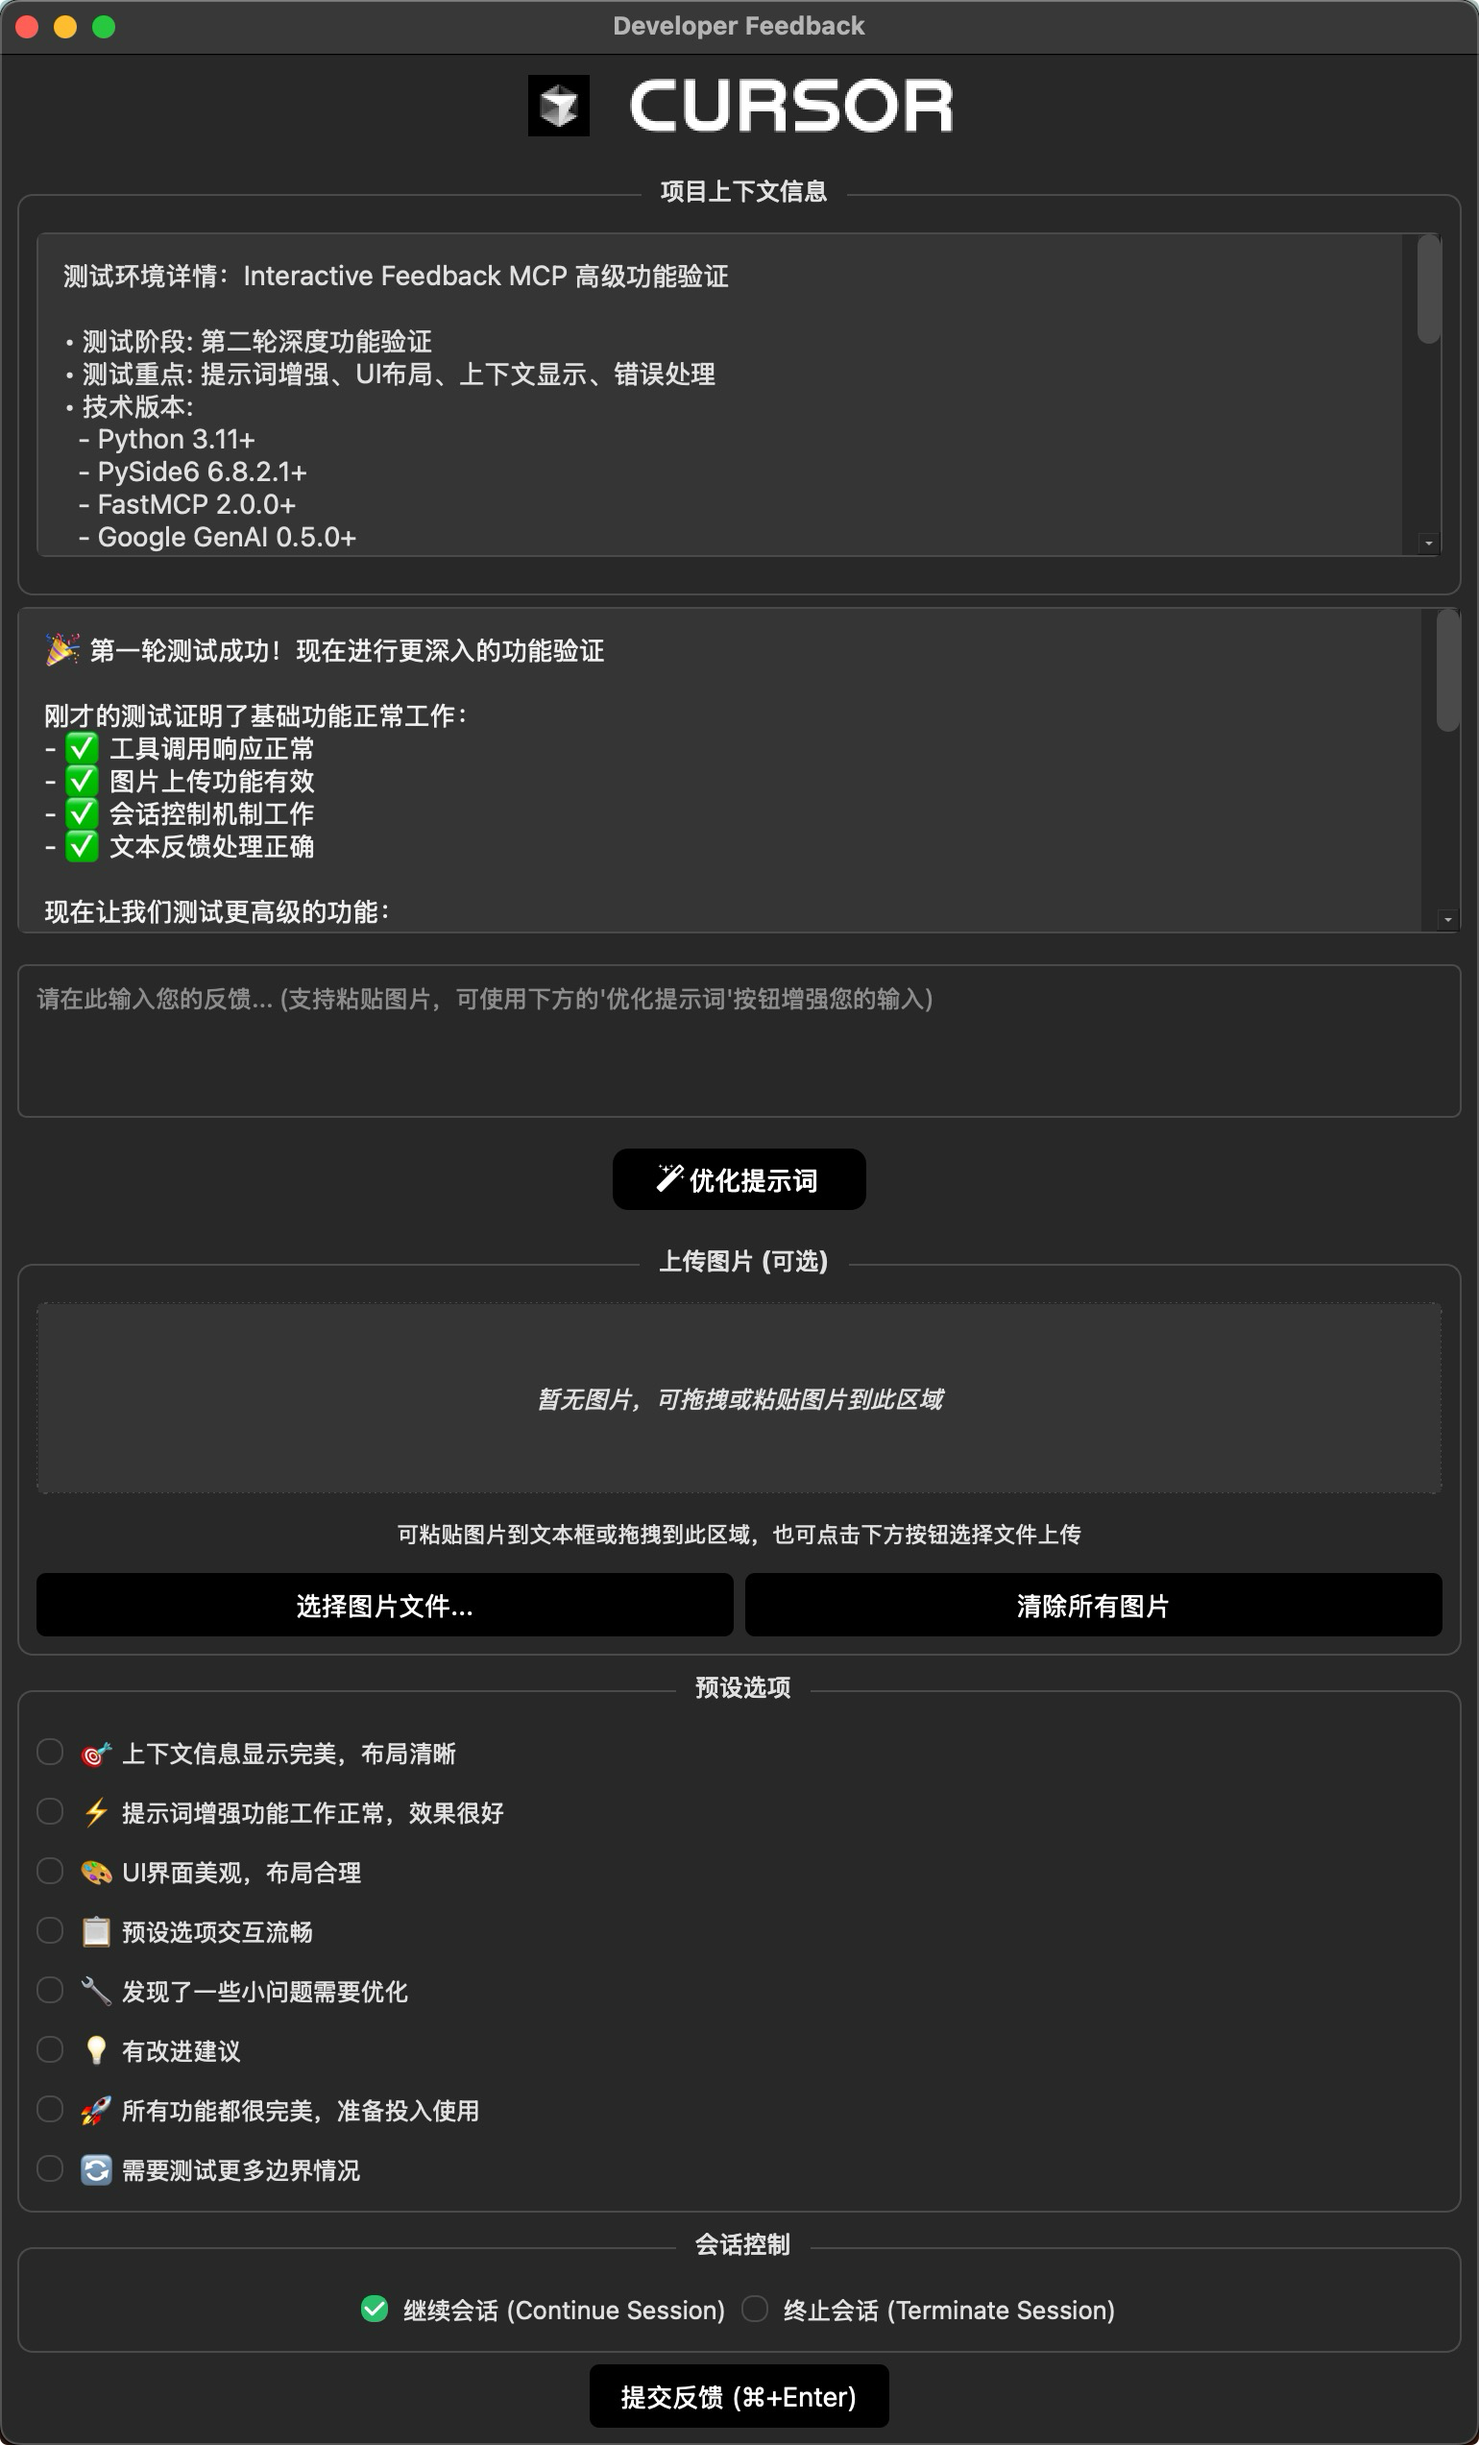
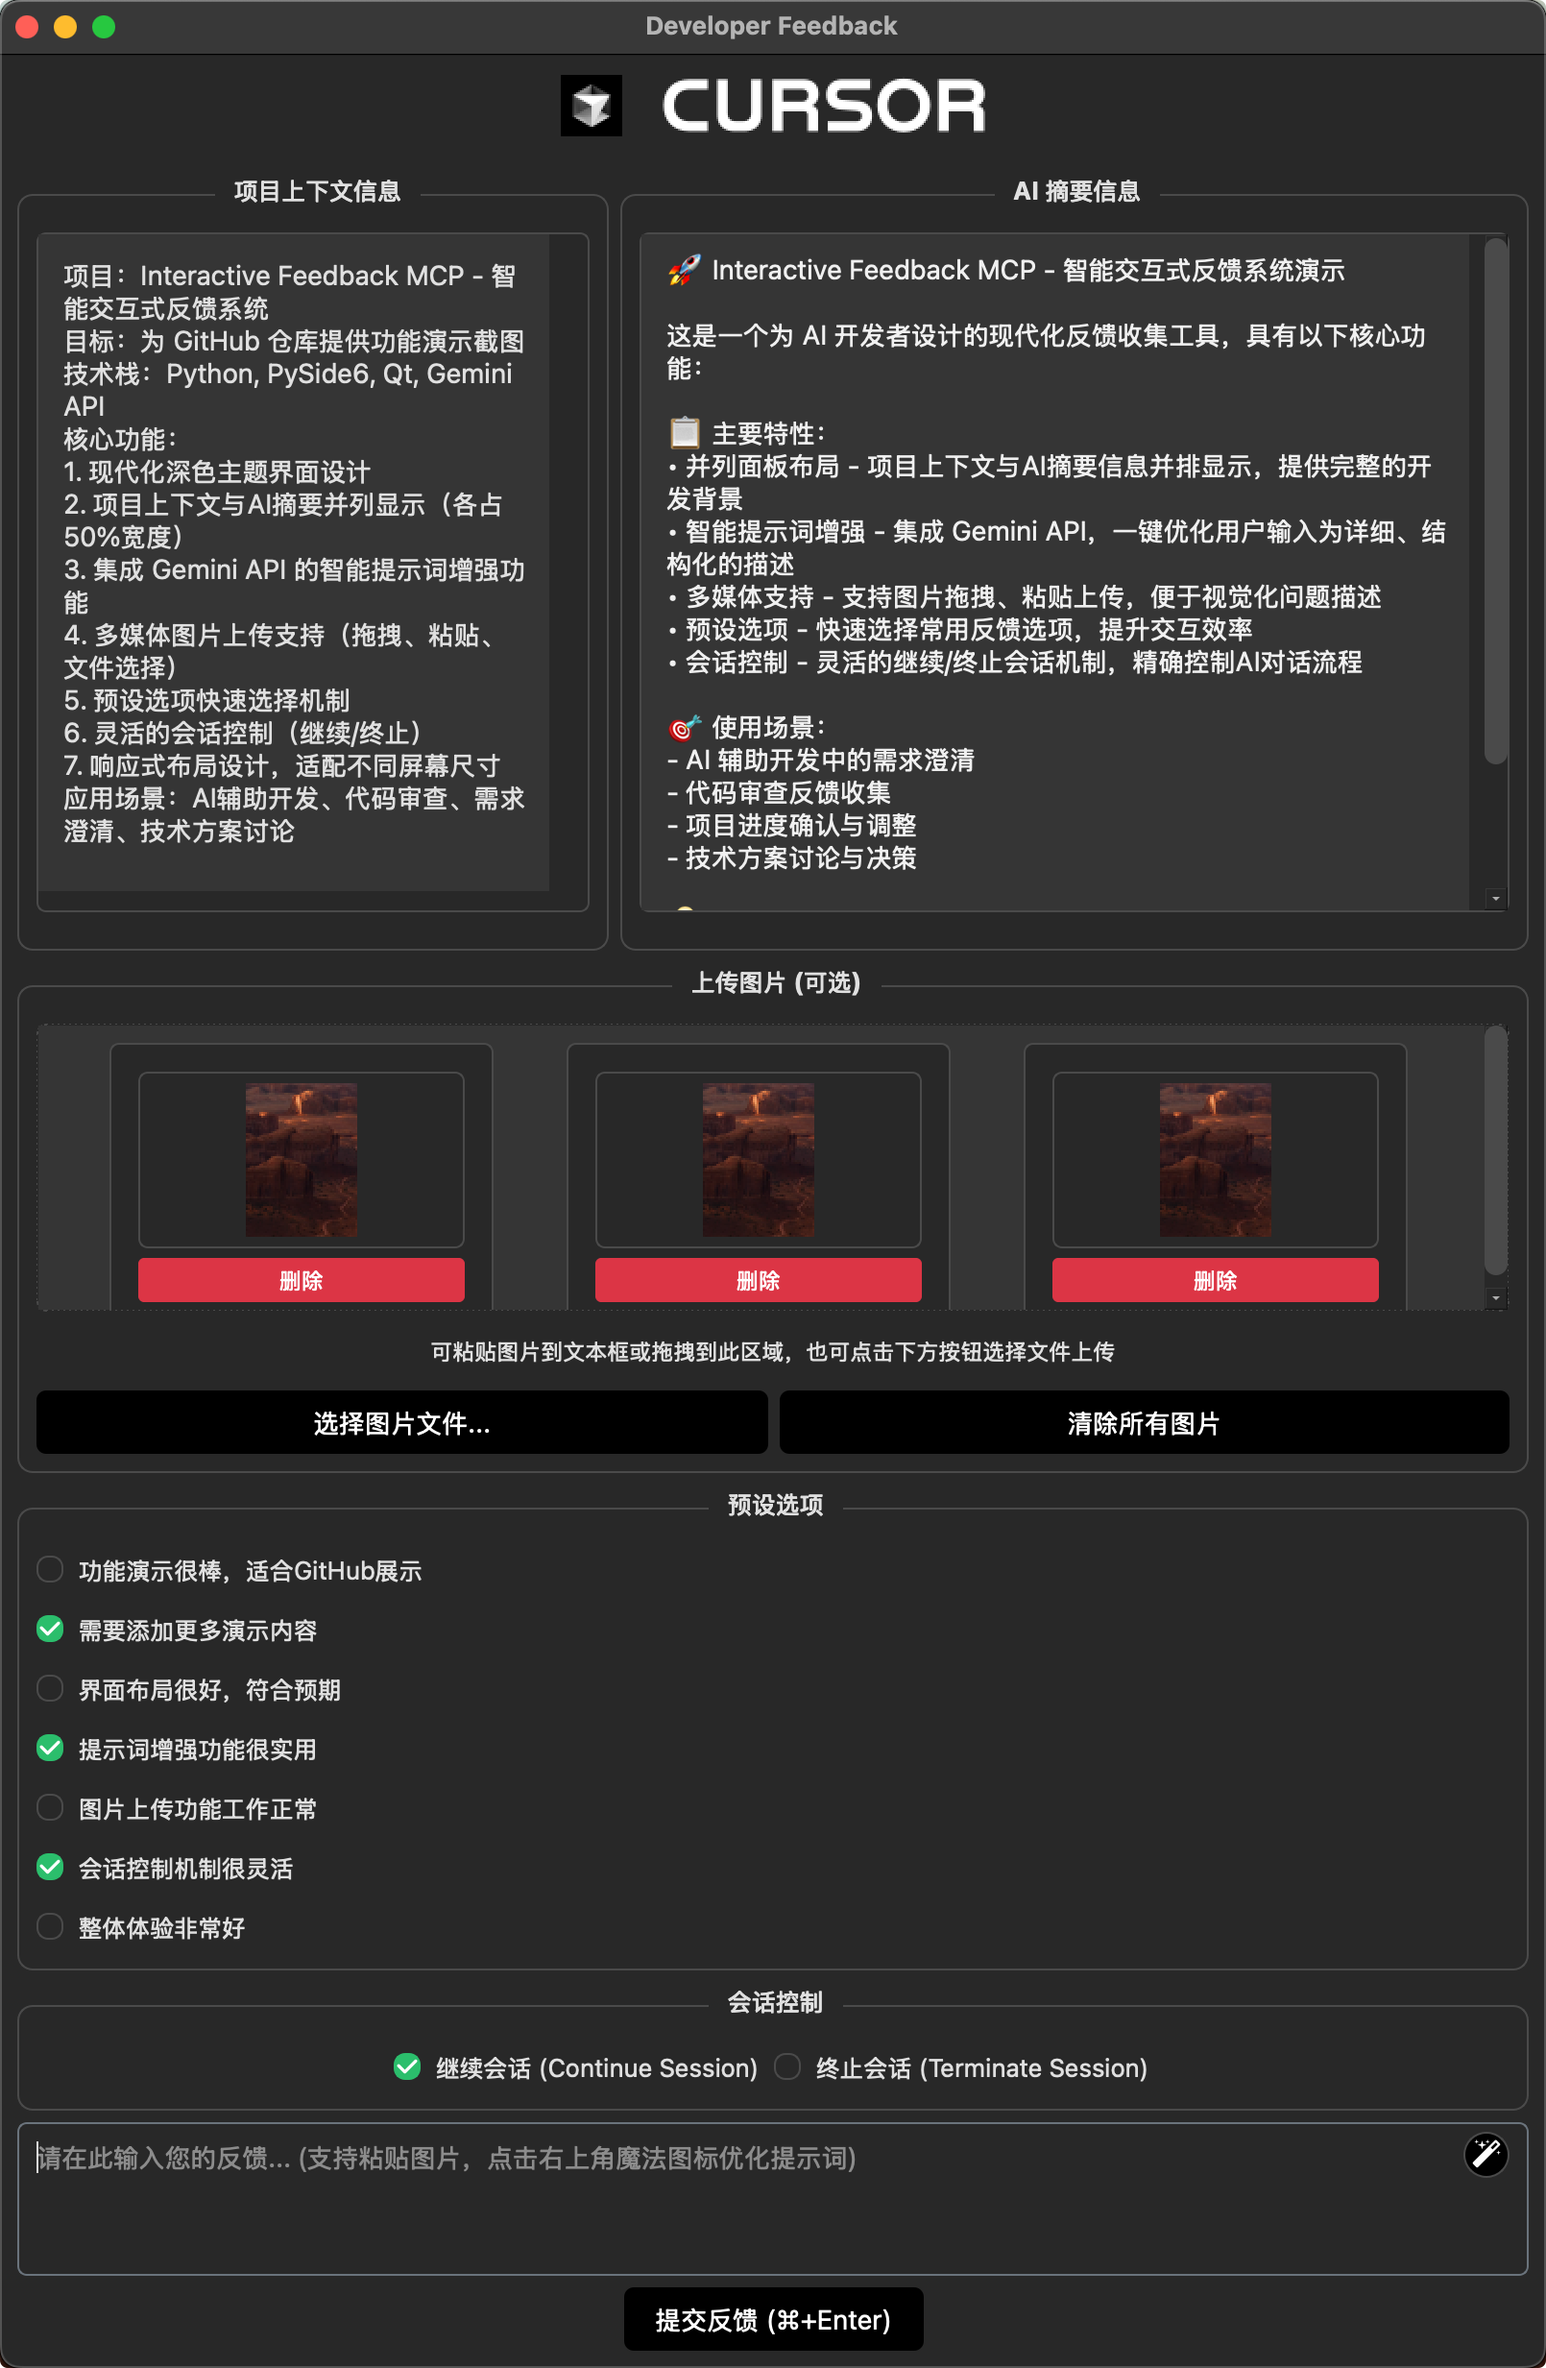
feat：重构反馈用户界面，优化上下文信息和提示部分布局，增加反馈文本输入区域的样式和功能，提升用户体验

diff --git a/feedback_ui.py b/feedback_ui.py
@@ -503,7 +503,11 @@ class FeedbackUI(QMainWindow):
         brand_layout.addStretch(1)
         main_layout.addLayout(brand_layout)
 
-        # --- Context Information Section (if provided) - MOVED TO TOP ---
+        # --- Context Information and Prompt Section (Side by Side) ---
+        # Create horizontal layout for context and prompt panels
+        context_prompt_layout = QHBoxLayout()
+
+        # --- Context Information Section (Left Panel - 50% width) ---
         if self.context_info and self.context_info.strip():
             context_group = QGroupBox(self.tr("项目上下文信息"))
             context_layout = QVBoxLayout(context_group)
@@ -551,9 +555,12 @@ class FeedbackUI(QMainWindow):
             """)
 
             context_layout.addWidget(context_scroll_area)
-            main_layout.addWidget(context_group)
+            context_prompt_layout.addWidget(context_group)  # Add to horizontal layout
 
-        # --- Prompt Section with Scroll Area ---
+        # --- Prompt Section (Right Panel - 50% width) ---
+        prompt_group = QGroupBox(self.tr("AI 摘要信息"))
+        prompt_layout = QVBoxLayout(prompt_group)
+
         # Create a scroll area for the prompt
         prompt_scroll_area = QScrollArea()
         prompt_scroll_area.setWidgetResizable(True)
@@ -596,85 +603,11 @@ class FeedbackUI(QMainWindow):
             }}
         """)
 
-        main_layout.addWidget(prompt_scroll_area)
+        prompt_layout.addWidget(prompt_scroll_area)
+        context_prompt_layout.addWidget(prompt_group)  # Add to horizontal layout
 
-        # --- Feedback Text Input Section ---
-        self.feedback_text = FeedbackTextEdit()
-        self.feedback_text.setPlaceholderText(self.tr("请在此输入您的反馈... (支持粘贴图片，可使用下方的'优化提示词'按钮增强您的输入)"))
-
-        # Connect image pasted signal if image upload is enabled
-        if self.enable_image_upload:
-            self.feedback_text.image_pasted.connect(self._on_image_pasted_to_text)
-
-        # Remove right padding since button is no longer embedded
-        self.feedback_text.setStyleSheet(f"""
-            QTextEdit {{
-                background-color: {INPUT_BACKGROUND_COLOR};
-                color: {TEXT_COLOR_PRIMARY};
-                border: 1px solid {BORDER_COLOR};
-                border-radius: 5px;
-                padding: 5px;
-            }}
-            QTextEdit:focus {{
-                border: 1px solid {INPUT_FOCUS_BORDER_COLOR};
-            }}
-        """)
-
-        main_layout.addWidget(self.feedback_text)
-
-        # --- Enhancement Button Section (centered below text input) ---
-        enhance_button_layout = QHBoxLayout()
-        enhance_button_layout.addStretch(1)  # Center the button
-
-        # Create the enhancement button
-        self.enhance_prompt_button = QPushButton()
-        self.enhance_prompt_button.setToolTip(self.tr("优化提示词 - 将简单想法转化为详细、结构化的描述"))
-
-        # Set up the magic icon and text
-        script_dir = os.path.dirname(os.path.abspath(__file__))
-        magic_icon_path = os.path.join(script_dir, "assets", "magic.svg")
-
-        if os.path.exists(magic_icon_path):
-            enhance_icon = QIcon(magic_icon_path)
-            self.enhance_prompt_button.setIcon(enhance_icon)
-            self.enhance_prompt_button.setText("优化提示词")  # Renamed for clarity
-        else:
-            self.enhance_prompt_button.setText("✨ 优化提示词")  # Fallback with emoji and text
-
-        # Style the button as rounded rectangle with text
-        self.enhance_prompt_button.setStyleSheet(f"""
-            QPushButton {{
-                background-color: {THEME_COLOR};
-                color: white;
-                border: none;
-                border-radius: 8px;
-                padding: 8px 16px;
-                font-size: {FONT_SIZE_MEDIUM};
-                font-weight: bold;
-                min-width: 100px;
-                height: 32px;
-            }}
-            QPushButton:hover {{
-                background-color: {HOVER_COLOR};
-            }}
-            QPushButton:pressed {{
-                background-color: {PRESSED_COLOR};
-            }}
-        """)
-
-        # Set appropriate size for the button with longer text
-        self.enhance_prompt_button.setFixedSize(120, 32)
-
-        # Connect button click to handler
-        self.enhance_prompt_button.clicked.connect(self._handle_enhance_prompt)
-
-        # Add button to layout with centering and then to main layout
-        enhance_button_layout.addWidget(self.enhance_prompt_button)
-        enhance_button_layout.addStretch(1)  # Center the button
-
-        # Add some spacing around the button area
-        enhance_button_layout.setContentsMargins(20, 10, 20, 10)
-        main_layout.addLayout(enhance_button_layout)
+        # Add the horizontal layout to main layout
+        main_layout.addLayout(context_prompt_layout)
 
         # --- Image Upload Section (conditionally added) ---
         if self.enable_image_upload:
@@ -686,8 +619,8 @@ class FeedbackUI(QMainWindow):
             self.image_scroll_area.setWidgetResizable(True)
             self.image_scroll_area.setHorizontalScrollBarPolicy(Qt.ScrollBarAsNeeded)
             self.image_scroll_area.setVerticalScrollBarPolicy(Qt.ScrollBarAsNeeded)
-            self.image_scroll_area.setMaximumHeight(200)
-            self.image_scroll_area.setMinimumHeight(100)
+            self.image_scroll_area.setMaximumHeight(300)  # Increased from 200 to 300
+            self.image_scroll_area.setMinimumHeight(150)  # Increased from 100 to 150
 
             # Create widget to hold the grid layout for image previews
             self.image_preview_widget = QWidget()
@@ -743,7 +676,7 @@ class FeedbackUI(QMainWindow):
             # Initialize preview area
             self._refresh_previews()
 
-        # --- Predefined Options Section (if any) ---
+        # --- Predefined Options Section (Third Row) ---
         if self.predefined_options:
             options_group = QGroupBox(self.tr("预设选项"))
             options_layout = QVBoxLayout(options_group)
@@ -756,7 +689,7 @@ class FeedbackUI(QMainWindow):
 
             main_layout.addWidget(options_group)
 
-        # --- Session Control Section ---
+        # --- Session Control Section (Fourth Row) ---
         session_control_group = QGroupBox(self.tr("会话控制"))
         session_control_layout = QHBoxLayout(session_control_group)
 
@@ -771,6 +704,101 @@ class FeedbackUI(QMainWindow):
         session_control_layout.addStretch(1)
 
         main_layout.addWidget(session_control_group)
+
+        # --- Feedback Text Input Section with Embedded Button (Fifth Row) ---
+        # Create a container widget for the text input and button
+        feedback_container = QWidget()
+        feedback_container_layout = QVBoxLayout(feedback_container)
+        feedback_container_layout.setContentsMargins(0, 0, 0, 0)
+
+        # Create the text input
+        self.feedback_text = FeedbackTextEdit()
+        self.feedback_text.setPlaceholderText(self.tr("请在此输入您的反馈... (支持粘贴图片，点击右上角魔法图标优化提示词)"))
+
+        # Connect image pasted signal if image upload is enabled
+        if self.enable_image_upload:
+            self.feedback_text.image_pasted.connect(self._on_image_pasted_to_text)
+
+        # Set reduced height (1/2 of original) and styling with padding for button
+        self.feedback_text.setMaximumHeight(100)  # Reduced height to about 1/2
+        self.feedback_text.setMinimumHeight(60)   # Set minimum height
+        self.feedback_text.setStyleSheet(f"""
+            QTextEdit {{
+                background-color: {INPUT_BACKGROUND_COLOR};
+                color: {TEXT_COLOR_PRIMARY};
+                border: 1px solid {BORDER_COLOR};
+                border-radius: 5px;
+                padding: 5px 40px 5px 5px;  /* Add right padding for button */
+                font-size: {FONT_SIZE_MEDIUM};
+            }}
+            QTextEdit:focus {{
+                border: 1px solid {INPUT_FOCUS_BORDER_COLOR};
+            }}
+        """)
+
+        # Create the enhancement button (icon only)
+        self.enhance_prompt_button = QPushButton(feedback_container)
+        self.enhance_prompt_button.setToolTip(self.tr("优化提示词 - 将简单想法转化为详细、结构化的描述"))
+
+        # Set up the magic icon only (no text)
+        script_dir = os.path.dirname(os.path.abspath(__file__))
+        magic_icon_path = os.path.join(script_dir, "assets", "magic.svg")
+
+        if os.path.exists(magic_icon_path):
+            enhance_icon = QIcon(magic_icon_path)
+            self.enhance_prompt_button.setIcon(enhance_icon)
+            self.enhance_prompt_button.setText("")  # No text, icon only
+        else:
+            self.enhance_prompt_button.setText("✨")  # Fallback with emoji only
+
+        # Style the button with black background
+        self.enhance_prompt_button.setStyleSheet(f"""
+            QPushButton {{
+                background-color: {THEME_COLOR};
+                border: 1px solid {BORDER_COLOR};
+                border-radius: 12px;
+                padding: 4px;
+                width: 24px;
+                height: 24px;
+            }}
+            QPushButton:hover {{
+                background-color: {HOVER_COLOR};
+                border: 1px solid {TEXT_COLOR_SECONDARY};
+            }}
+            QPushButton:pressed {{
+                background-color: {PRESSED_COLOR};
+            }}
+        """)
+
+        # Set button size and position it in the top-right corner of text input
+        self.enhance_prompt_button.setFixedSize(24, 24)
+
+        # Connect button click to handler
+        self.enhance_prompt_button.clicked.connect(self._handle_enhance_prompt)
+
+        # Add text input to container
+        feedback_container_layout.addWidget(self.feedback_text)
+
+        # Position the button in the top-right corner using absolute positioning
+        def position_button():
+            button_x = self.feedback_text.width() - self.enhance_prompt_button.width() - 10
+            button_y = 5  # Move button higher up
+            self.enhance_prompt_button.move(button_x, button_y)
+            self.enhance_prompt_button.raise_()  # Bring button to front
+
+        # Connect resize event to reposition button
+        original_resize_event = self.feedback_text.resizeEvent
+        def on_feedback_resize(event):
+            original_resize_event(event)  # Call original resize event first
+            if event:
+                position_button()
+
+        self.feedback_text.resizeEvent = on_feedback_resize
+
+        # Initial positioning
+        QTimer.singleShot(0, position_button)
+
+        main_layout.addWidget(feedback_container)
 
         # --- Submit Button Section ---
         submit_button_layout = QHBoxLayout()
@@ -841,6 +869,11 @@ class FeedbackUI(QMainWindow):
             # Create frame for each image thumbnail
             image_frame = QFrame()
             image_frame.setFrameStyle(QFrame.Box)
+
+            # Set fixed width for image frames to ensure 1/3 width when single image
+            frame_width = 200  # Fixed width for each image frame
+            image_frame.setFixedWidth(frame_width)
+
             image_frame.setStyleSheet(f"""
                 QFrame {{
                     border: 1px solid {BORDER_COLOR};
